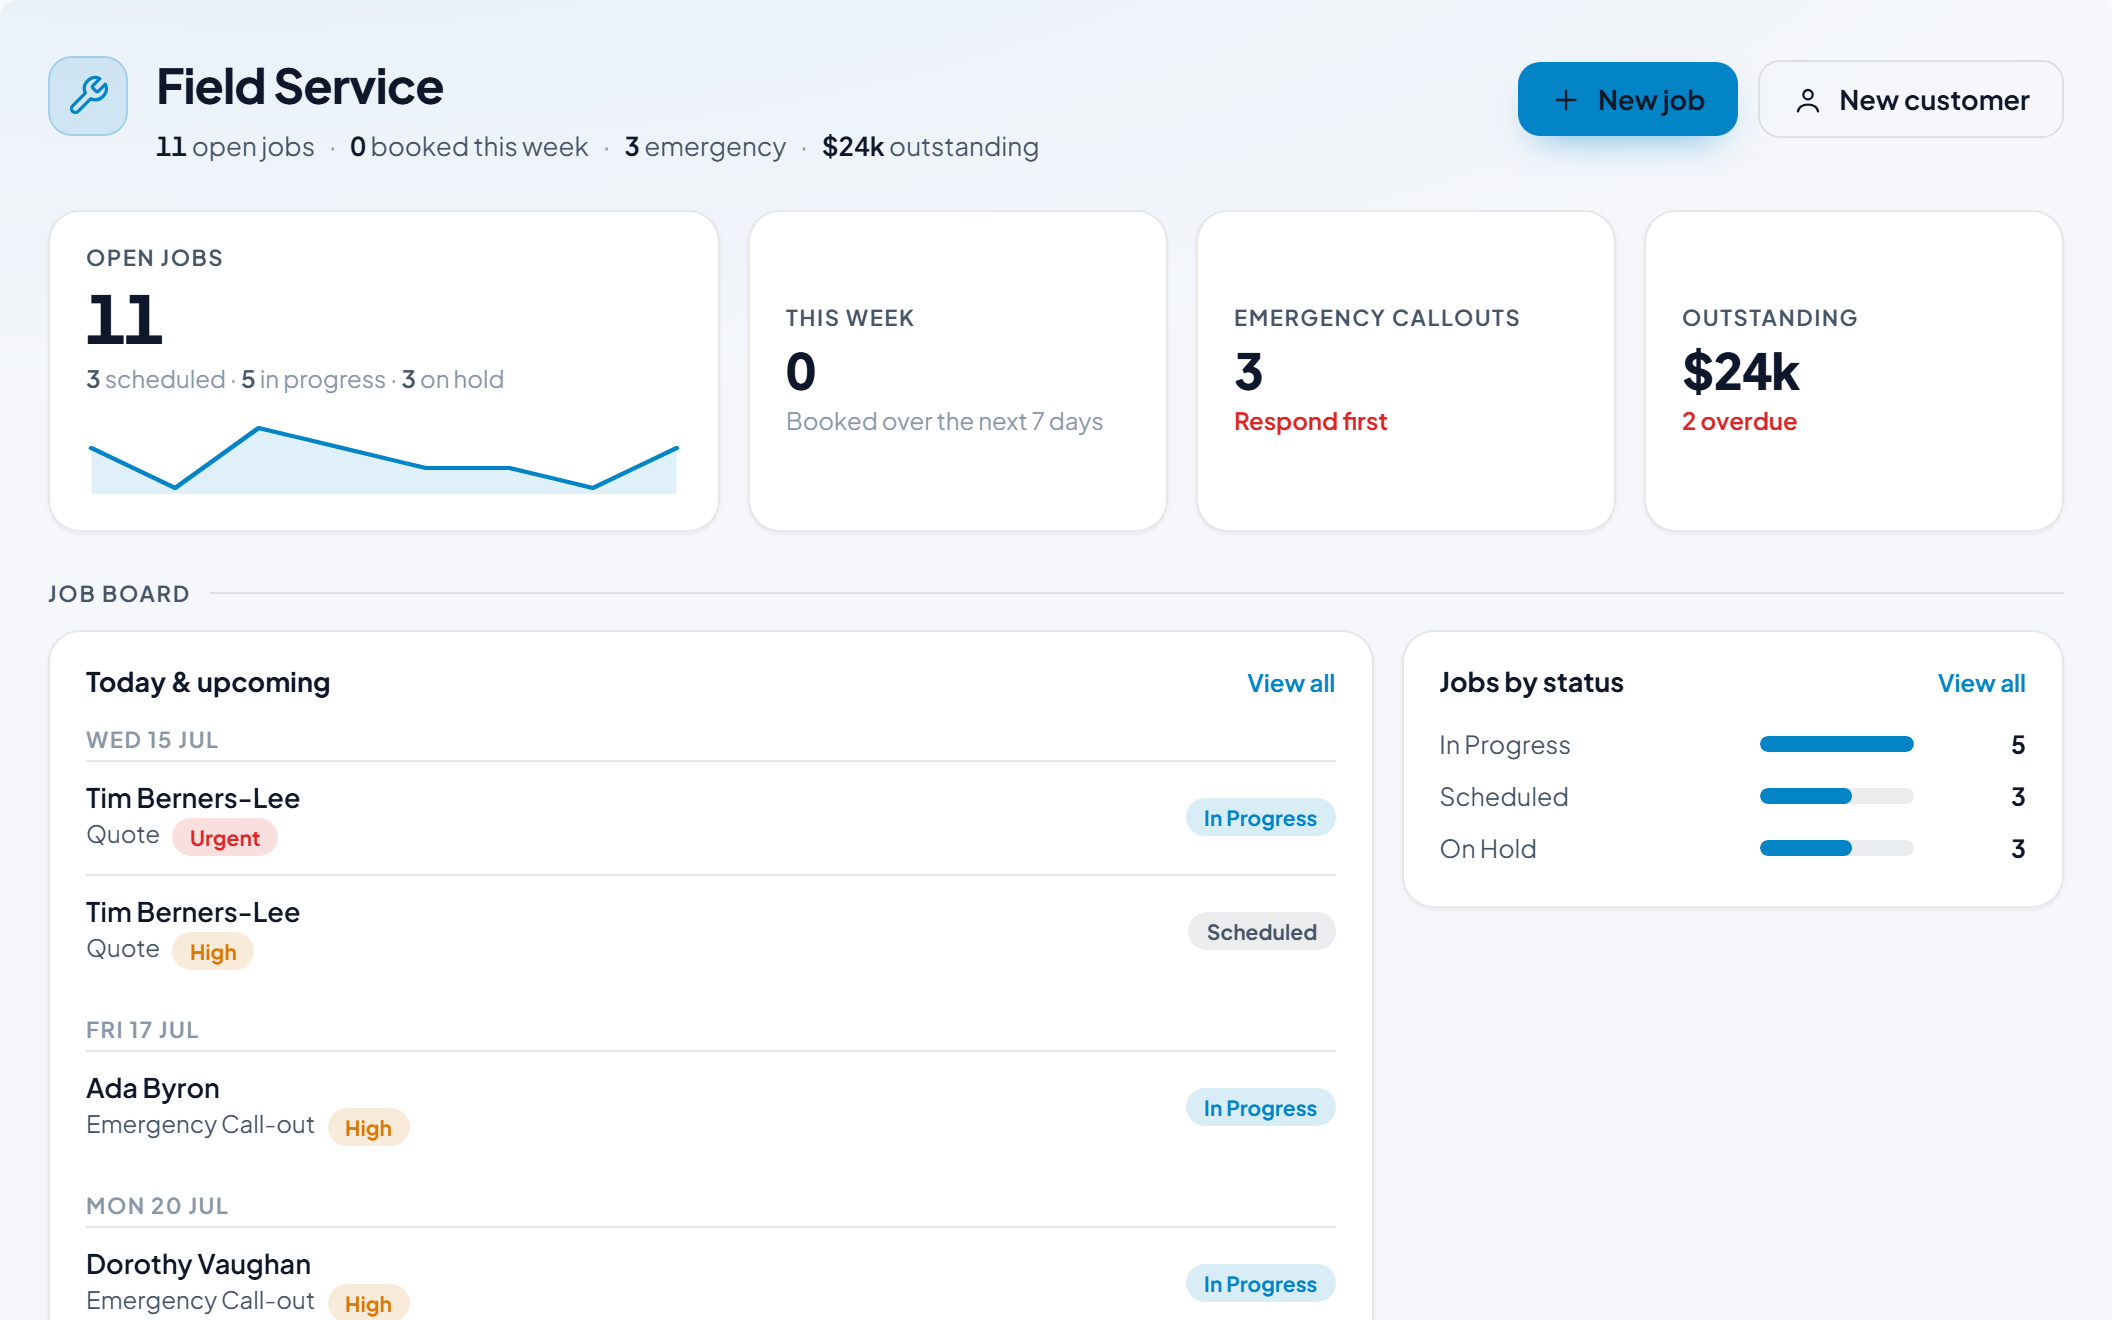
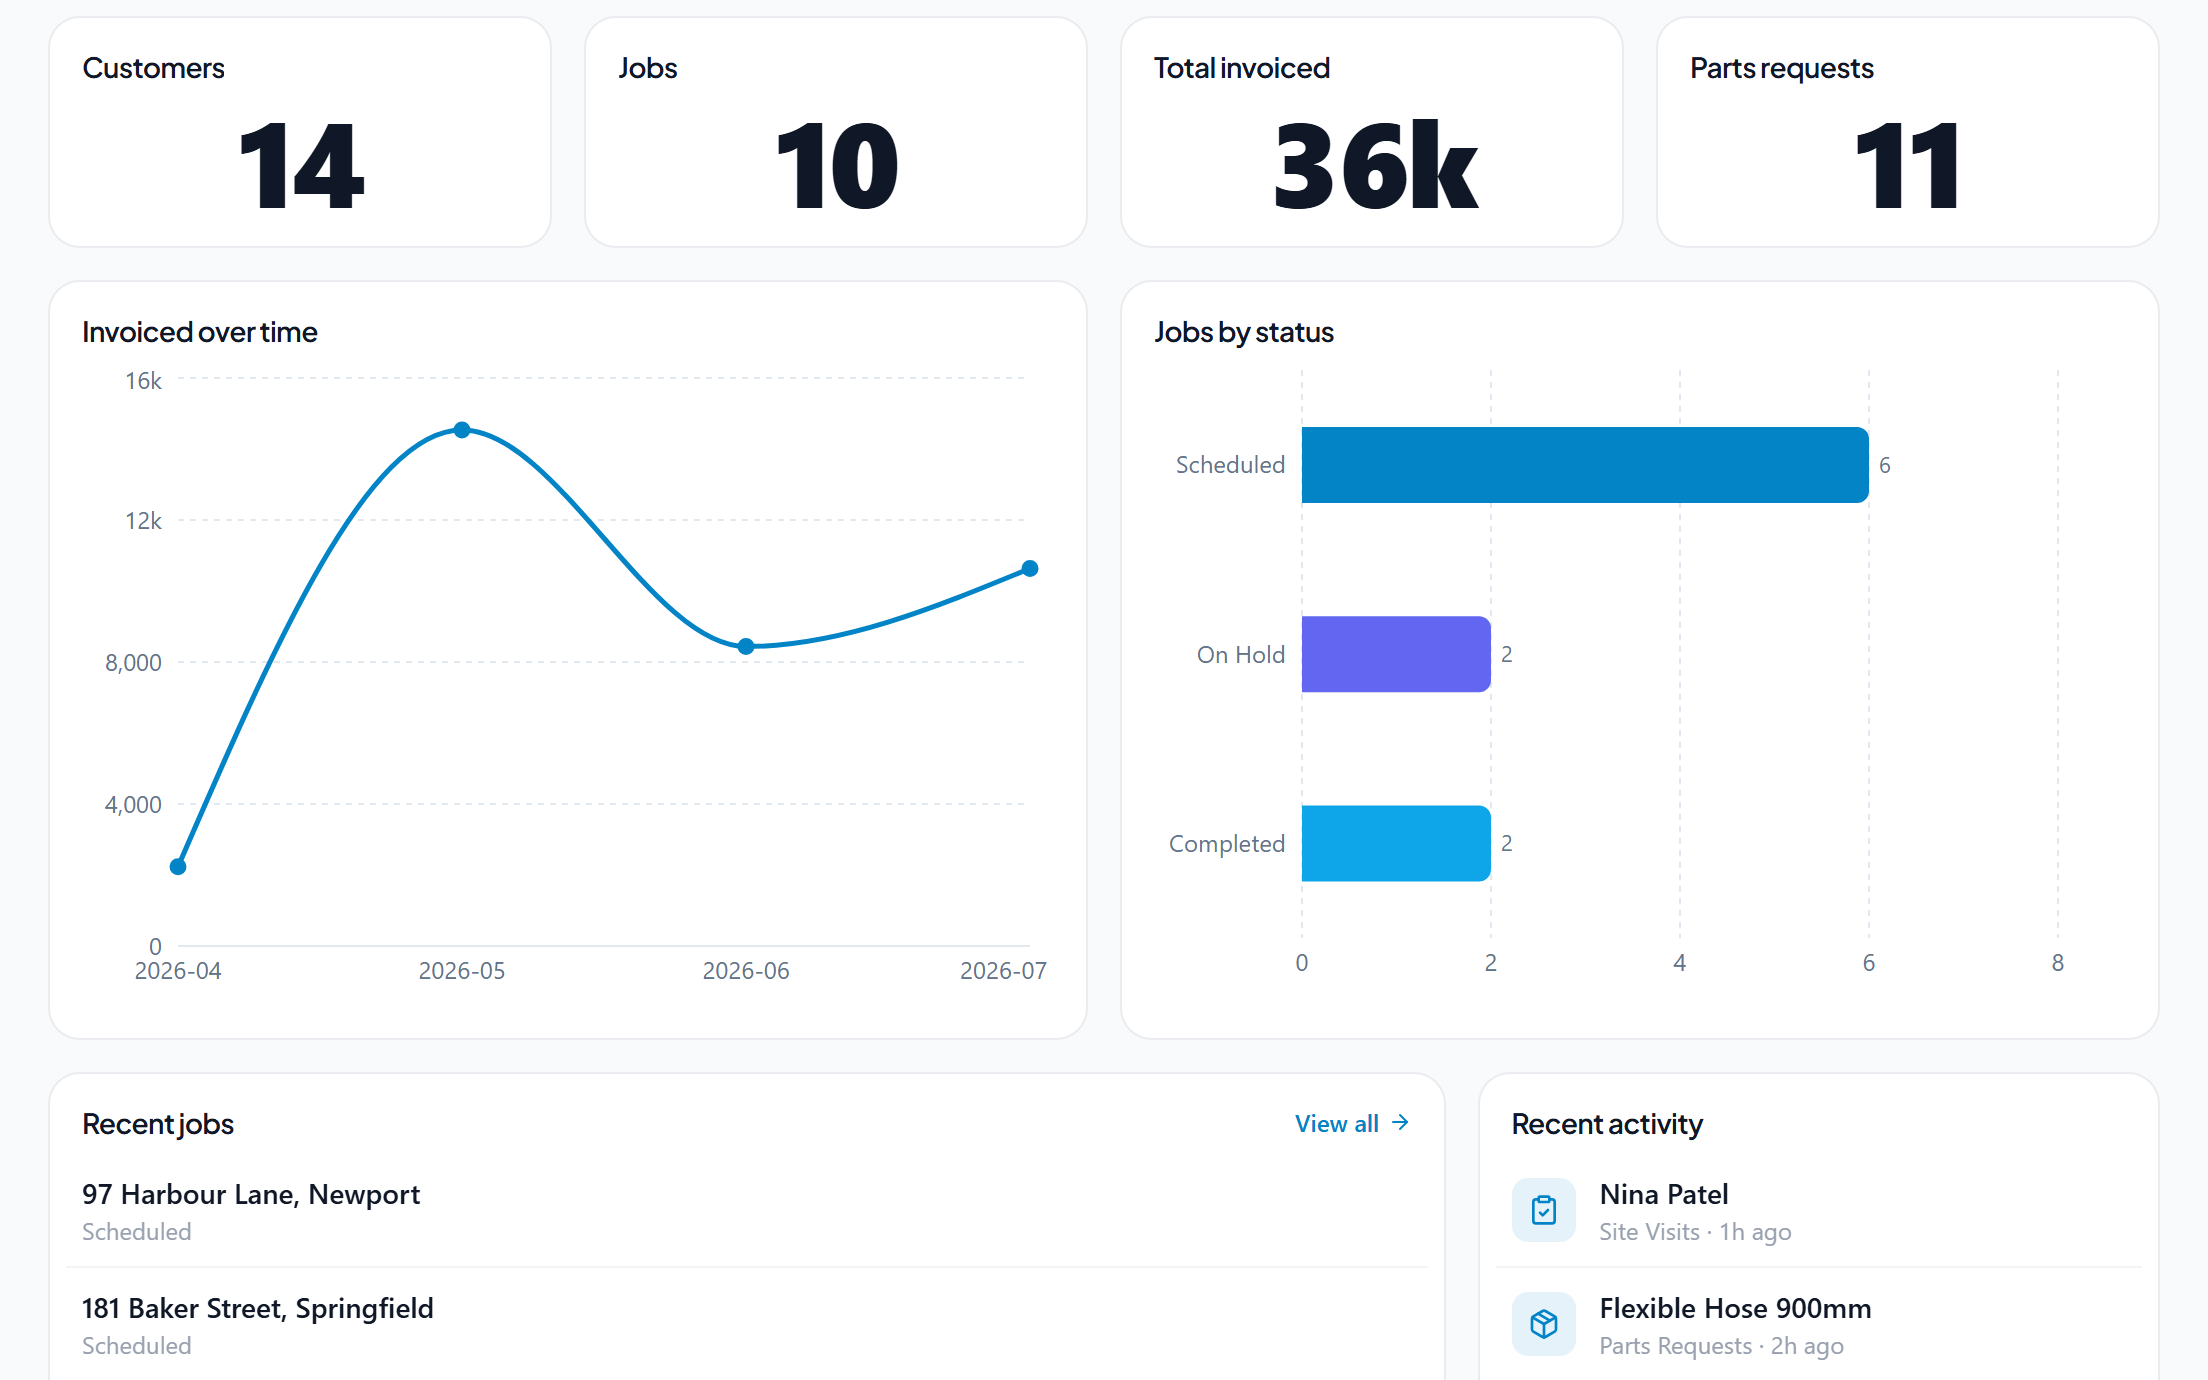
README: refresh app screenshots + text for the 28-pack widget-dashboard catalog
Screenshots: expand the marketplace gallery from 4 to 8 dashboards, using the latest QA'd
widget-dashboard captures across a wider spread of verticals + accent colours — Plumbing, Salon,
FitStudio, StayReady, BrewDesk, CounterFlow, FleetFlow, OHS/QMS (dropped the older job-invoice +
inventory shots). Plumbing/Salon refreshed to the current recharts dashboards.

Text:
- Catalog count 13 → 28 apps; note the 34 installable demo apps (multi-app packs).
- Rebuilt the marketplace table with all 28 packs grouped by category (adds CleanShift, PawRoute,
  BrewDesk, GrillStack, PassMaster, CaterCraft, StayReady, FitStudio, CounterFlow, FleetFlow,
  SitePulse, AgriLog, VenueOps, TutorTrack, RepairBench).
- Dashboards are now no-code, drag-and-drop recharts widget grids (not sandboxed custom screens);
  added a "Configurable Dashboards" capability and updated the dashboard language throughout.
- Live Demo bullet: "Launch the live demo" drops you into the full platform.
- Project-structure notes: 28 pack bundles; 24 pages.

Claude-Session: https://claude.ai/code/session_0126P4mQje54uEQ9gFusf58Y

diff --git a/README.md b/README.md
@@ -2,7 +2,7 @@
 
 **FormLogic is a self-hostable business app platform. Install a ready-made vertical app, customise forms and dashboards, collect linked records, generate reports and PDFs, and let your AI extend apps over MCP.**
 
-Every app is *forms + workflow + a live dashboard + reports*, deployable with role-based access. Install a niche app from the marketplace (plumbing field service, salon bookings, job & invoicing, mechanic workshop, HR, OHS…), adapt it to your business, or point your own AI at it over MCP to generate and edit apps for you. Under the hood it's a full drag-and-drop form builder with a sandboxed JavaScript runtime, linked records, analytics, and audit logging.
+Every app is *forms + workflow + a configurable dashboard + reports*, deployable with role-based access. Install a niche app from the marketplace (plumbing field service, salon bookings, café & restaurant ops, short-stay turnovers, fleet logbooks, retail, HR, OHS…), adapt it to your business, or point your own AI at it over MCP to generate and edit apps for you. Under the hood it's a full drag-and-drop form builder with a sandboxed JavaScript runtime, linked records, no-code widget dashboards, analytics, and audit logging.
 
 ![FormLogic form builder — drag-and-drop canvas, field palette, and per-field settings](docs/images/builder.png)
 
@@ -21,14 +21,15 @@ Every app is *forms + workflow + a live dashboard + reports*, deployable with ro
 
 ## Overview
 
-FormLogic is built around a simple loop: **land → try the live demo → install a ready-made vertical app → customise it → hand it to your AI to improve → export/share it.** Each marketplace app bundles the forms, the workflow (roles, linked records, `onSubmit` scripts), and a live custom dashboard, so you start from a working business system rather than a blank canvas. It's fully self-hosted, with a Typeform-style builder and a sandboxed JavaScript (QuickJS) runtime underneath.
+FormLogic is built around a simple loop: **land → try the live demo → install a ready-made vertical app → customise it → hand it to your AI to improve → export/share it.** Each marketplace app bundles the forms, the workflow (roles, linked records, `onSubmit` scripts), and a configurable, drag-and-drop widget dashboard, so you start from a working business system rather than a blank canvas. It's fully self-hosted, with a Typeform-style builder and a sandboxed JavaScript (QuickJS) runtime underneath.
 
 ### Key Capabilities
 
-- **App Marketplace** -- 13 ready-made vertical business apps, each a real working system (forms + workflow + custom dashboard + demo data). Install in one click, customise, hand to your AI, or export as a portable `.json`. Browse by dynamic categories/tags. See [App Marketplace](#app-marketplace) below.
-- **Live Demo** -- A no-signup shared Demo account with the whole marketplace pre-installed and populated, so dashboards are live on first look. Visitors' changes (new records, new forms, settings) stay in *their* browser — the shared demo never gets polluted.
+- **App Marketplace** -- 28 ready-made vertical business apps, each a real working system (forms + workflow + configurable dashboard + demo data). Install in one click, customise, hand to your AI, or export as a portable `.json`. Browse by dynamic categories/tags. See [App Marketplace](#app-marketplace) below.
+- **Live Demo** -- A no-signup shared Demo account with the whole marketplace pre-installed and populated, so dashboards are live on first look. *Launch the live demo* drops you into the full platform; visitors' changes (new records, new forms, settings) stay in *their* browser — the shared demo never gets polluted.
+- **Configurable Dashboards** -- Every app screen — the home dashboard and each form's section screen — is a no-code, drag-and-drop grid of **recharts** widgets: KPIs, bar/line/area/pie/donut charts, record lists, and activity feeds. Edit a widget's query and chart type inline, exactly like a report — no code. (Advanced users can still drop to a sandboxed HTML/JS custom screen.)
 - **Reports & PDFs** -- Each app has a no-code Reports section: compose bar, line, area, pie, donut, KPI, and table charts with grouping, measures, filters, and cross-form (linked-record) joins. Arrange charts and text blocks into exportable PDF documents.
-- **Business Apps** -- Compose forms into multi-form applications with navigation, RBAC, linked records, and a sandboxed custom-screen dashboard.
+- **Business Apps** -- Compose forms into multi-form applications with navigation, RBAC, linked records, and a configurable widget dashboard.
 - **Build with AI / MCP** -- Generate forms/apps from a prompt, or connect an external AI (Claude, Cursor…) over MCP to build and edit whole apps — including forms, screens, and reports — for you. See [Build with your own AI (MCP)](#build-with-your-own-ai-mcp).
 - **Form Builder** -- Drag-and-drop editor with 20+ field types, live preview, theme customization
 - **Scripting Engine** -- Real JavaScript, sandboxed with QuickJS, for conditional logic, validation, calculated fields, and post-submission (`onSubmit`) scripts — the same engine and standard-library prelude run in the browser and on the server
@@ -47,39 +48,66 @@ FormLogic is built around a simple loop: **land → try the live demo → instal
 
 ## App Marketplace
 
-FormLogic ships with a catalog of **ready-made vertical apps** — each one is a real, working business system (not a "Contact Us" form): several linked forms, role-based access, seeded demo data, and a live custom dashboard. Install one in a click, then customise it, hand it to your AI over MCP, or export it as a portable `.json`. The public **[Live Demo](#)** has every app pre-installed and populated, so you can click straight into a working dashboard.
+FormLogic ships with a catalog of **28 ready-made vertical apps** — each one is a real, working business system (not a "Contact Us" form): several linked forms, role-based access, seeded demo data, and a configurable widget dashboard. Install one in a click, then customise it, hand it to your AI over MCP, or export it as a portable `.json`. The public **[Live Demo](#)** has every app pre-installed and populated, so you can click straight into a working dashboard.
 
 <p align="center">
-  <img src="docs/images/packs/plumbing.png" width="49%" alt="Plumbing & Trades Field Service — jobs, revenue, and status dashboard" />
+  <img src="docs/images/packs/plumbing.png" width="49%" alt="Plumbing & Trades Field Service — invoiced-over-time, jobs-by-status, and recent jobs" />
   &nbsp;
-  <img src="docs/images/packs/salon.png" width="49%" alt="Hair Salon & Beauty Studio — appointments and revenue dashboard" />
+  <img src="docs/images/packs/salon.png" width="49%" alt="Hair Salon & Beauty Studio — revenue KPIs, appointments by status, bookings over time" />
 </p>
 <p align="center">
-  <img src="docs/images/packs/job-invoice.png" width="49%" alt="Job & Invoice Management — billing pipeline dashboard" />
+  <img src="docs/images/packs/fitstudio.png" width="49%" alt="FitStudio — client and session KPIs, revenue trend, sessions by trainer" />
   &nbsp;
-  <img src="docs/images/packs/inventory.png" width="49%" alt="Inventory & Purchase Orders — stock and low-stock dashboard" />
+  <img src="docs/images/packs/stayready.png" width="49%" alt="StayReady — short-stay bookings, turnovers by status, guests hosted" />
 </p>
-<p align="center"><sub>A few of the marketplace dashboards — Plumbing field service · Salon bookings · Job &amp; invoicing · Inventory (all render in light &amp; dark)</sub></p>
+<p align="center">
+  <img src="docs/images/packs/brewdesk.png" width="49%" alt="BrewDesk — café orders over time, drinks by type, stock-to-reorder donut" />
+  &nbsp;
+  <img src="docs/images/packs/counterflow.png" width="49%" alt="CounterFlow — retail stock movements, products by category, recent movements" />
+</p>
+<p align="center">
+  <img src="docs/images/packs/fleetflow.png" width="49%" alt="FleetFlow — trips over time, fleet by status donut, incidents by severity" />
+  &nbsp;
+  <img src="docs/images/packs/ohs.png" width="49%" alt="OHS & Quality Management — incidents by severity, incidents over time, recent incidents" />
+</p>
+<p align="center"><sub>Eight of the marketplace dashboards — Plumbing · Salon · FitStudio · StayReady · BrewDesk · CounterFlow · FleetFlow · OHS/QMS. Every dashboard is a no-code recharts widget grid and renders in light &amp; dark.</sub></p>
 
 Browse by **dynamic categories and tags** derived from whatever's in the catalog (no hardcoded taxonomy) — publish your own packs and the browse chips update automatically.
 
 | App | Category | What it runs |
 |-----|----------|--------------|
-| 🔧 Plumbing & Trades Field Service | Trades & Field Service | Customers → jobs → site visits → invoices → parts |
+| 🔧 Plumbing & Trades Field Service | Trades & Field Service | Customers → jobs → site visits → invoices → parts requests |
 | 🚗 Mechanic Workshop Manager | Trades & Field Service | Customers → vehicles → job cards → parts → invoices |
 | 🏠 Property Maintenance & Handyman | Trades & Field Service | Properties → tenants → requests → work orders → inspections |
-| 🧾 Job & Invoice Management | Billing & Invoicing | Clients → jobs → quotes → invoices → payments |
-| 💇 Hair Salon & Beauty Studio | Beauty & Wellness | Clients → services → stylists → appointments → sales |
-| 🩺 Clinic Appointment & Intake | Health & Wellness | Patients → providers → appointments → intake → follow-ups (front-desk only) |
-| 📦 Inventory & Purchase Orders | Operations | Products → suppliers → purchase orders → line items → stock movements |
-| 👥 HR & People Management | HR | Recruitment, onboarding, leave, reviews, expenses, training, exits |
-| ⛑ OHS & Quality Management | Safety & Quality | Incidents, hazards, audits, corrective actions, NCRs (ISO 45001 / 9001) |
-| 🎧 Customer Service | Customer Service | Tickets, bugs, feature requests, feedback, refunds, escalations, KB |
-| 🎉 Event Management | Events | Registration, speakers, vendors, volunteers, incidents, budget, feedback |
+| 🧹 CleanShift — Cleaning Scheduler | Trades & Field Service | Clients → teams → jobs → quality checks → supplies → issues |
+| 🐾 PawRoute — Dog Walking & Pet Care | Trades & Field Service | Clients → pets → bookings → walks/visits → incidents & care notes |
+| ☕ BrewDesk — Cafe & Barista Ops | Hospitality & Food | Orders → barista queue → menu → bean/milk stock → roster → daily close |
+| 🍔 GrillStack — Burger Command Center | Hospitality & Food | Order board → kitchen pass → prep → stock → shifts → daily close |
+| 🍽 PassMaster — Restaurant Service | Hospitality & Food | Reservations → tables → orders → kitchen tickets → prep → shift close |
+| 🎂 CaterCraft — Catering & Events | Hospitality & Food | Clients → menu packages → event pipeline → production → deliveries |
+| 🛎 StayReady — Short-Stay Turnover | Hospitality & Food | Properties → bookings → cleaner turnovers → inspections → supplies |
+| 💇 Hair Salon & Beauty Studio | Beauty, Health & Fitness | Clients → services → stylists → appointments → product sales |
+| 💪 FitStudio — Training & Coaching | Beauty, Health & Fitness | Clients → trainers → sessions → assessments → programs → payments |
+| 🩺 Clinic Appointment & Intake | Beauty, Health & Fitness | Patients → providers → appointments → intake → follow-ups (front-desk) |
+| 📦 Inventory & Purchase Orders | Retail & Operations | Products → suppliers → purchase orders → line items → stock movements |
+| 🛍 CounterFlow — Retail Store Ops | Retail & Operations | Products → suppliers → stock movements → store tasks → staff → returns |
+| 🚚 FleetFlow — Fleet & Driver Log | Retail & Operations | Vehicles → drivers → trips → fuel → maintenance → incidents |
+| ⛑ OHS & Quality Management | Field Ops & Compliance | Incidents, hazards, audits, corrective actions, NCRs (ISO 45001 / 9001) |
+| 🏗 SitePulse — Construction Site Diary | Field Ops & Compliance | Projects → daily diaries → deliveries → defects → variations → insurances |
+| 🌾 AgriLog — Farm Jobs & Harvest | Field Ops & Compliance | Paddocks → crop jobs → harvests → chemical register → machinery |
+| 🎟 VenueOps — Venue Hire & Bookings | Bookings & Education | Spaces → hirers → bookings → setups → payments → incidents |
+| 📚 TutorTrack — Tutoring & Lessons | Bookings & Education | Students → tutors → lessons → progress notes → invoices |
+| 🎉 Event Management | Bookings & Education | Registration, speakers, vendors, volunteers, incidents, budget, feedback |
+| 🧾 Job & Invoice Management | Billing & Business | Clients → jobs → quotes → invoices → payments |
+| 🛠 RepairBench — Device Repair Shop | Billing & Business | Customers → devices → repair jobs → parts → quality sign-off → pickup |
+| 👥 HR & People Management | Billing & Business | Recruitment, onboarding, leave, reviews, expenses, training, exits |
+| 🎧 Customer Service | Billing & Business | Tickets, bugs, feature requests, feedback, refunds, escalations, KB |
 | 🏦 Finance OS (US) | Finance | RIA/broker-dealer onboarding, compliance & advisory (Reg BI, Form CRS) |
 | 🦘 Finance OS (AU) | Finance | AFSL advice, Best Interest Duty, super, AUSTRAC |
 
-**Producing packs is a repeatable pipeline**: an AI author→review workflow generates the forms + linked records + dashboard + sample data, then each pack is verified (imports, renders light/dark, data populates), auto-screenshotted for the gallery, and published. New verticals are cheap to add.
+The Live Demo carries a few of these as multi-app packs (e.g. Finance OS ships onboarding **and** a portfolio/transition hub), so there are **34 installable demo apps** across the 28 catalog packs.
+
+**Producing packs is a repeatable pipeline**: an AI author→review workflow generates the forms + linked records + widget dashboard + sample data, then each pack is verified (imports, renders light/dark, data populates, no dead KPIs) — including an automated screenshot vision-QA sweep — auto-screenshotted for the gallery, and published. New verticals are cheap to add.
 
 ---
 
@@ -140,7 +168,7 @@ formlogic-app/
 │   │
 │   └── ui/
 │       └── src/
-│           ├── pages/                 # 11 pages + 9 app admin pages
+│           ├── pages/                 # 24 pages + 9 app admin pages
 │           ├── components/
 │           │   ├── app-runtime/       # Business app runtime (data tables, form views, auth guards)
 │           │   ├── builder/           # Form builder (field palette, script editor, NIGO dashboard...)
@@ -153,7 +181,7 @@ formlogic-app/
 │           ├── types/                 # TypeScript interfaces (form, app)
 │           └── data/
 │               ├── formTemplates.ts   # Built-in form templates
-│               └── packs/             # Pre-built pack bundles (Finance OS)
+│               └── packs/             # 28 marketplace pack bundles (forms + apps + widget dashboards)
 ```
 
 > The FormLogic scripting engine is embedded in `form-builder/`: the browser side in
